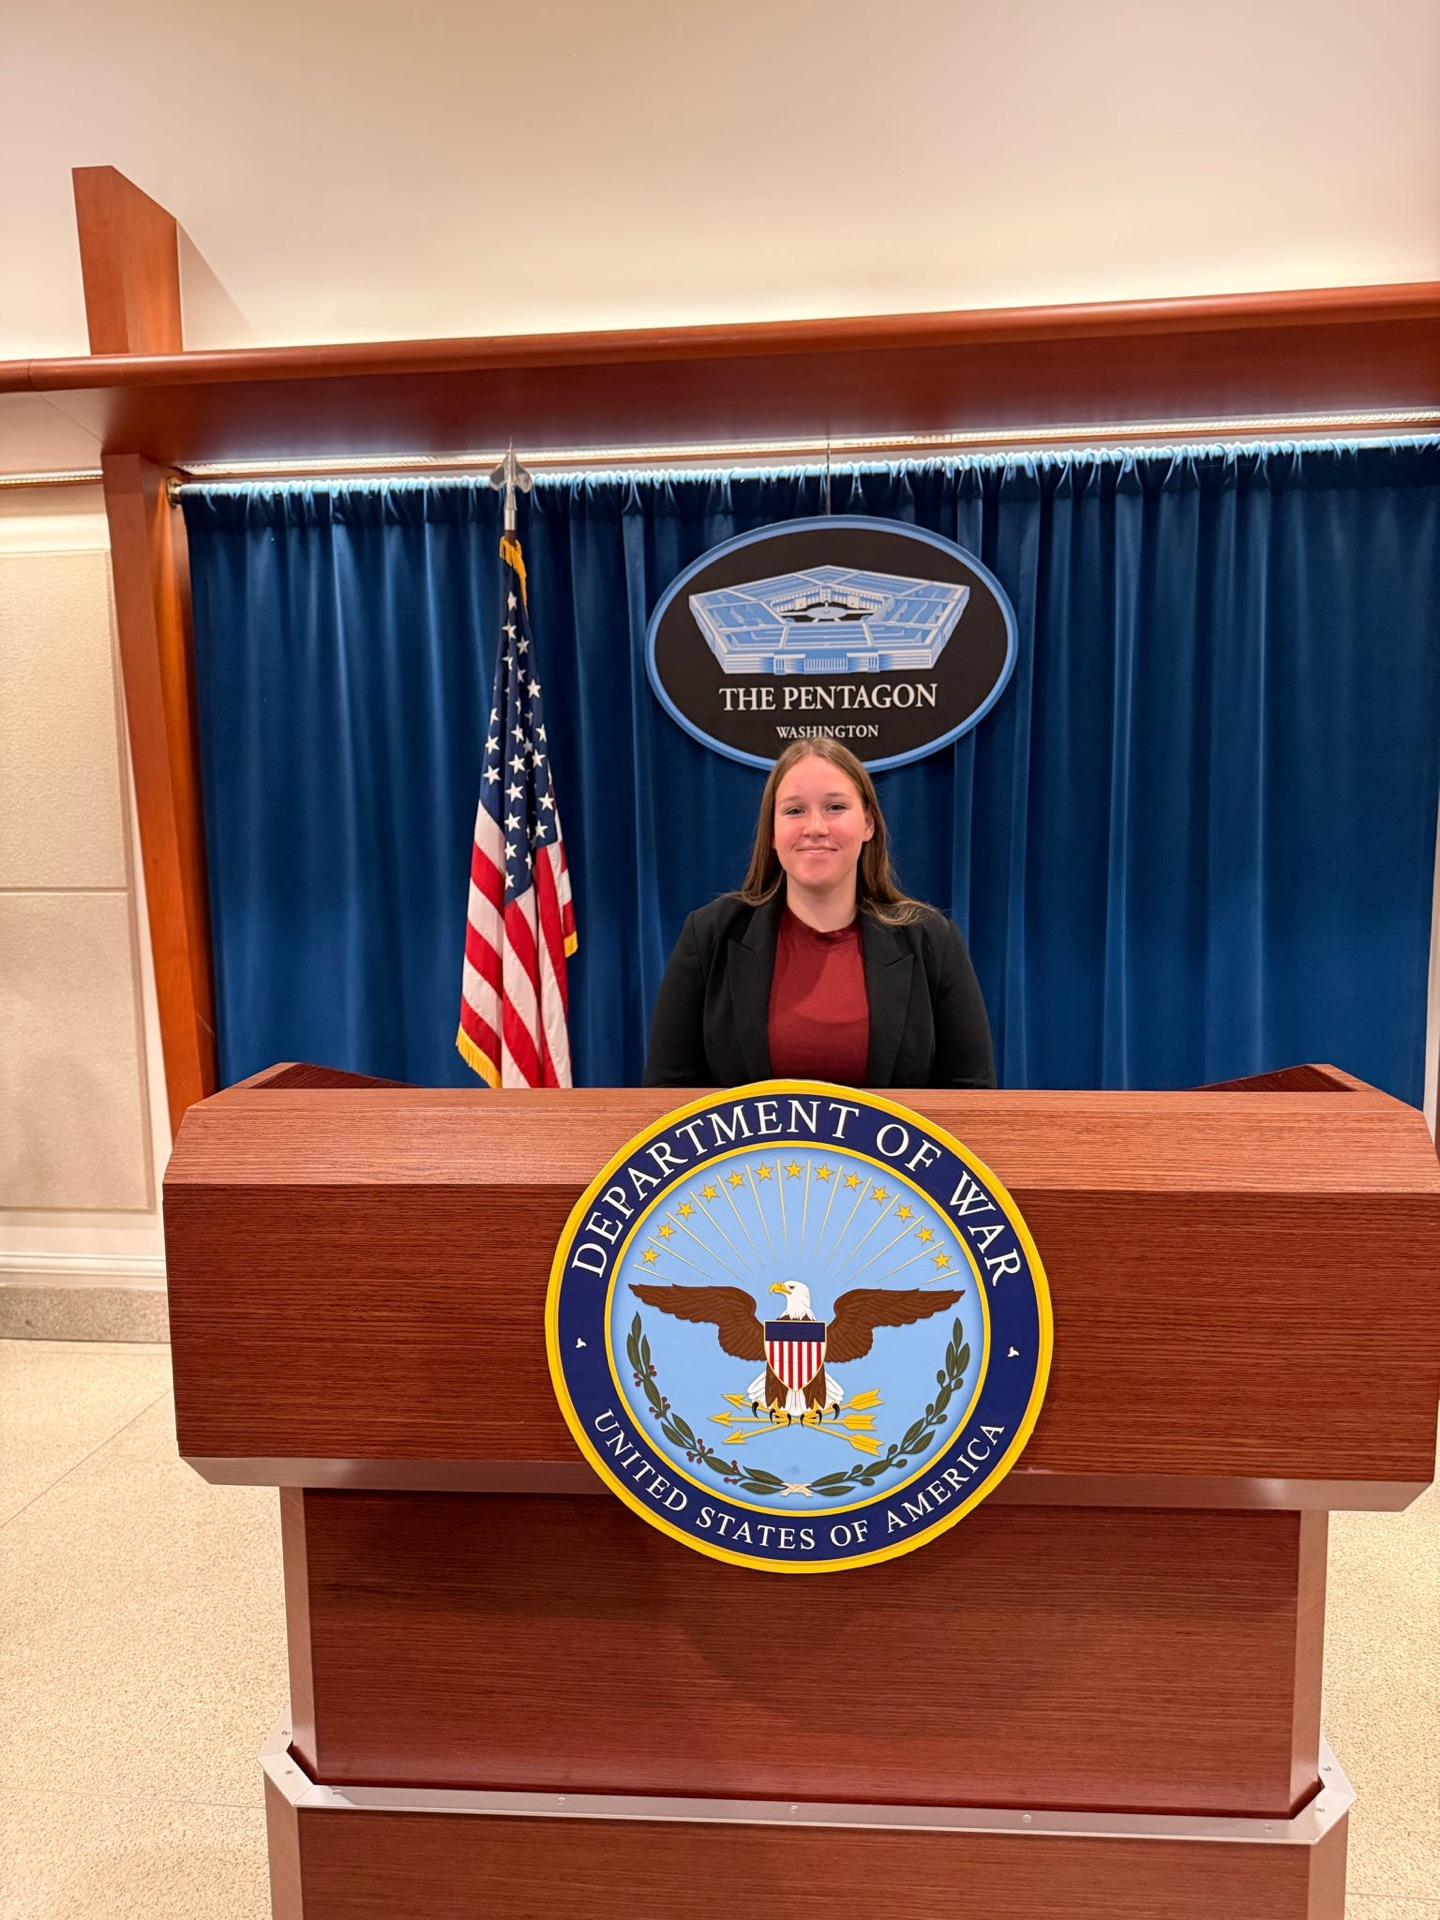
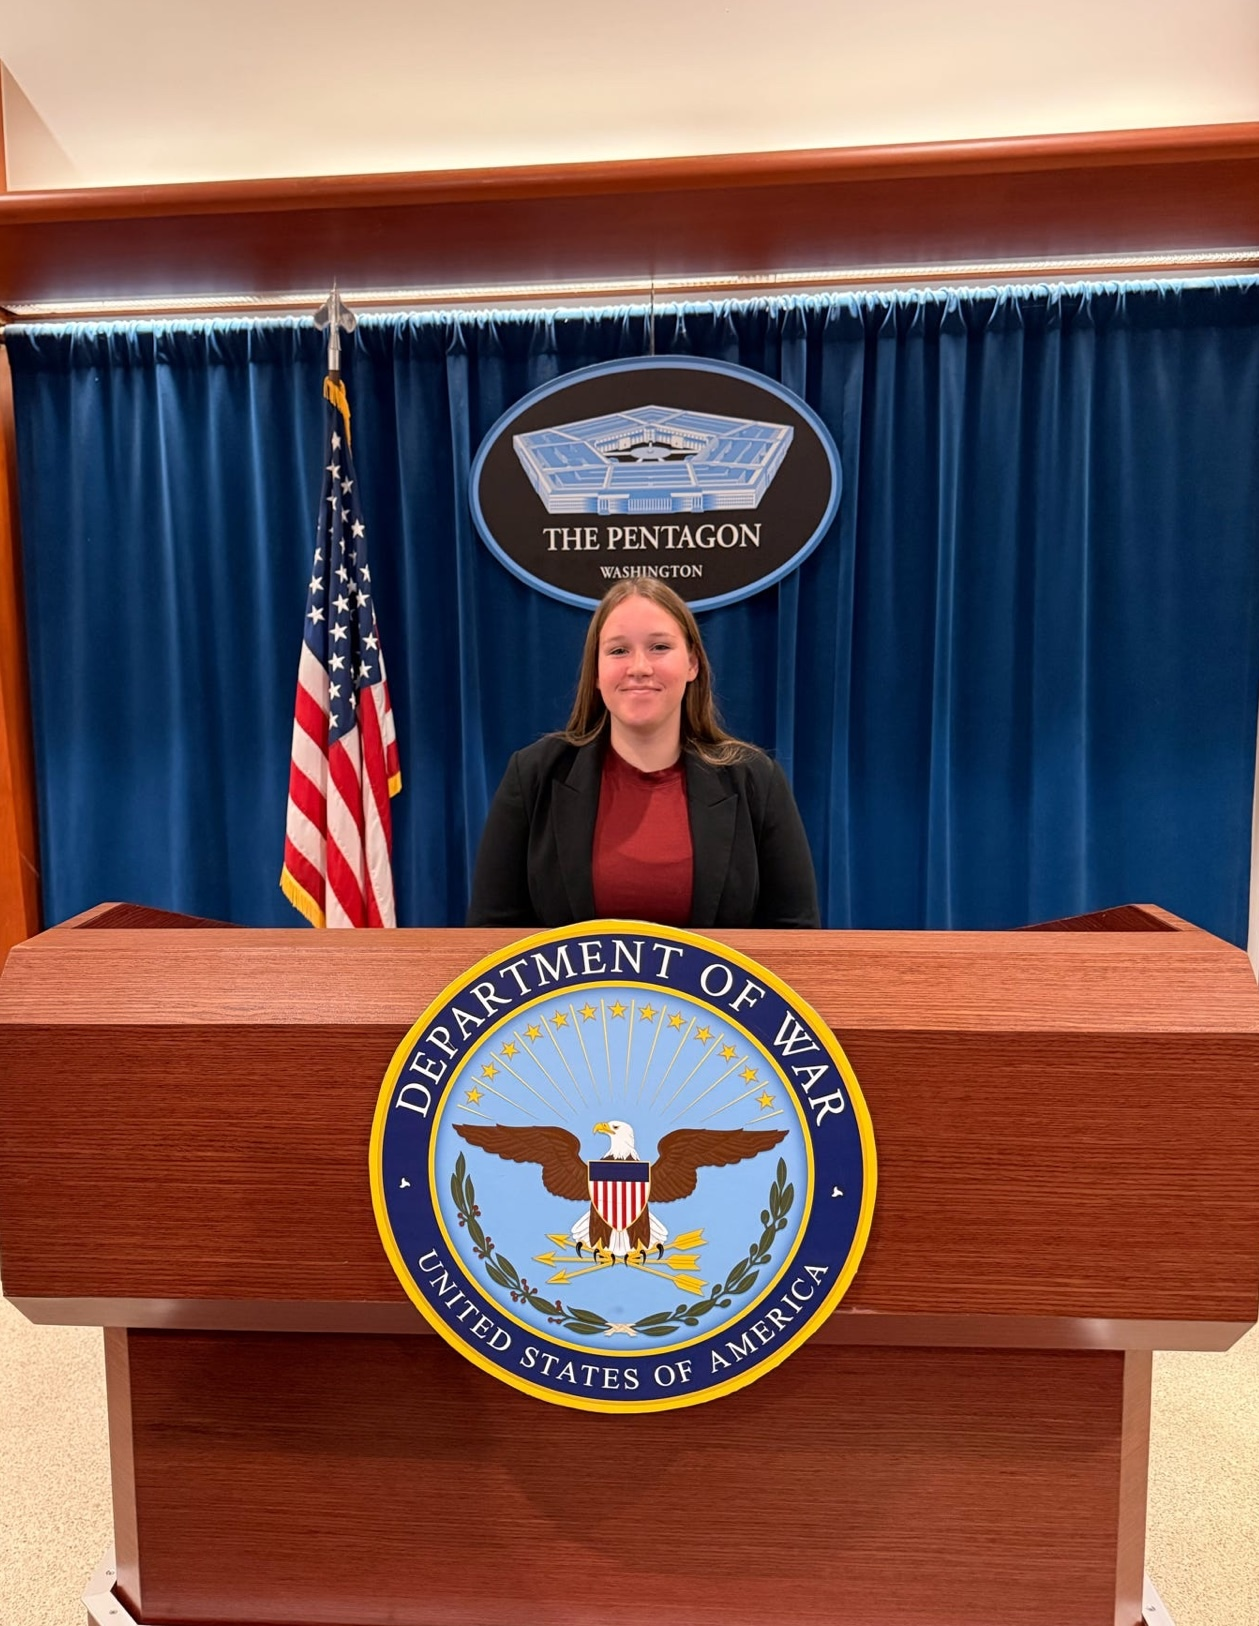
Update Charlee Pentagon photo crop

diff --git a/dist/stories/index.html b/dist/stories/index.html
@@ -1297,7 +1297,7 @@
         <div class="flex gap-5 overflow-x-auto pb-4 snap-x snap-mandatory scroll-smooth lg:gap-6" data-story-track>
           <article class="flex w-[230px] flex-shrink-0 snap-start flex-col overflow-hidden rounded-[1.75rem] border border-white/10 bg-white/5 shadow-lg transition lg:mx-auto lg:w-full lg:max-w-[340px] xl:w-[420px] xl:max-w-[420px]" data-story-slide data-published="2026-07-13">
             <figure class="relative aspect-[4/5] overflow-hidden rounded-t-[1.75rem]">
-              <img src="/assets/img/stories/charlee-national-2.jpeg" alt="Charlee Cromwell at the Pentagon briefing podium in Washington, D.C." class="h-full w-full object-cover object-center" width="1440" height="1920" loading="lazy" decoding="async">
+              <img src="/assets/img/stories/charlee-national-2.jpeg" alt="Charlee Cromwell at the Pentagon briefing podium in Washington, D.C." class="h-full w-full object-cover object-center" width="1259" height="1626" loading="lazy" decoding="async">
               <div class="absolute inset-x-0 bottom-0 bg-gradient-to-t from-slate-900/95 via-slate-900/40 to-transparent p-3">
                 <p class="text-[0.55rem] font-semibold uppercase tracking-[0.3em] text-secondary">National youth advocacy</p>
                 <p class="mt-1 text-xs font-medium text-white/90">An Iowa teen carries the voices of National Guard youth into national conversations.</p>
@@ -1597,7 +1597,7 @@
           </div>
           <div class="grid gap-4 sm:grid-cols-2 lg:grid-cols-3">
             <figure class="overflow-hidden rounded-3xl bg-slate-100 sm:row-span-2">
-              <img src="/assets/img/stories/charlee-national-2.jpeg" alt="Charlee at the Pentagon briefing podium" class="h-full min-h-80 w-full object-cover" width="1440" height="1920" loading="lazy" decoding="async">
+              <img src="/assets/img/stories/charlee-national-2.jpeg" alt="Charlee at the Pentagon briefing podium" class="h-full min-h-80 w-full object-cover" width="1259" height="1626" loading="lazy" decoding="async">
             </figure>
             <figure class="overflow-hidden rounded-3xl bg-slate-100 lg:col-span-2">
               <img src="/assets/img/stories/charlee-national-4.jpeg" alt="Joint-service teen leaders gathered together in their purple delegation shirts" class="h-64 w-full object-cover" width="1920" height="1440" loading="lazy" decoding="async">
